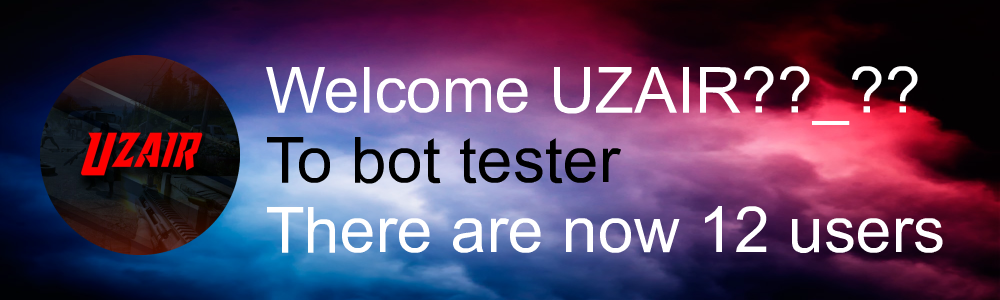
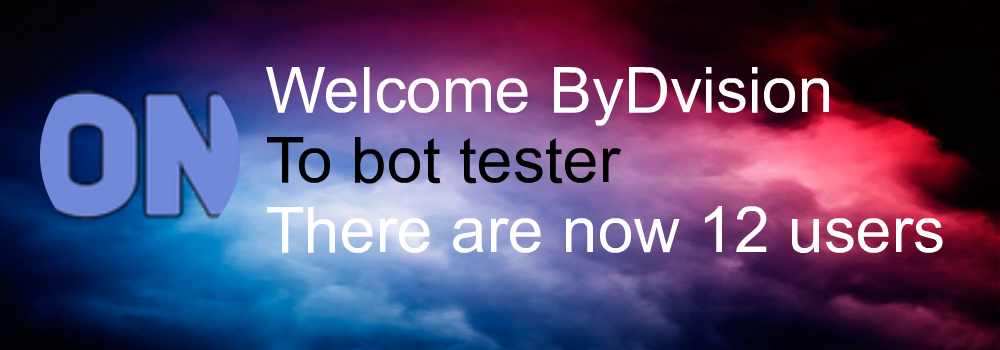
🏋⚡ Checkpoint ./index.js:9057529/4

Changed region(s): [[0.031, 0.18, 0.961, 0.87], [0.558, 0.18, 0.93, 0.39], [0.806, 0.39, 0.868, 0.42]]

diff --git a/index.js b/index.js
@@ -75,7 +75,7 @@ let font = await jimp.loadFont(jimp.FONT_SANS_32_BLACK) //We declare a 32px font
     avatar.resize(200, 200) //Resize it
     mask.resize(200, 200) //Resize the mask
     avatar.mask(mask) //Make the avatar circle
-    welcome.resize(1000, 350)
+    welcome.resize(1000, 300)
 	
   welcome.print(font64, 265, 55, `Welcome ${member.user.username}`) //We print the new user's name with the 64px font
   welcome.print(bfont64, 265, 125, `To ${member.guild.name}`)
